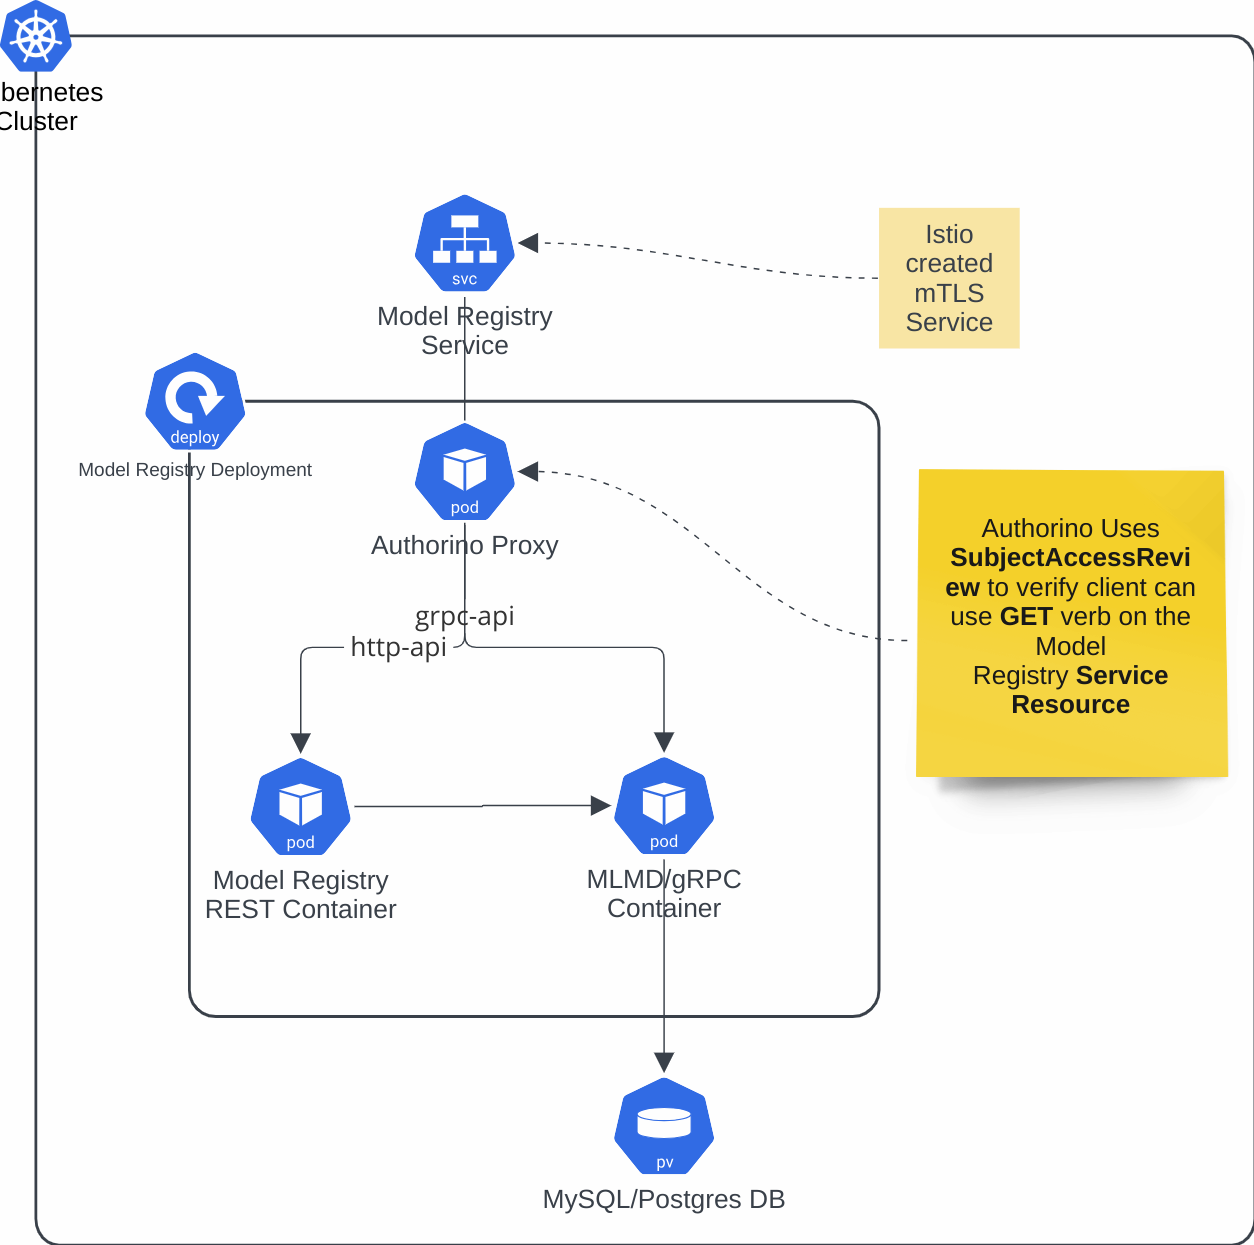
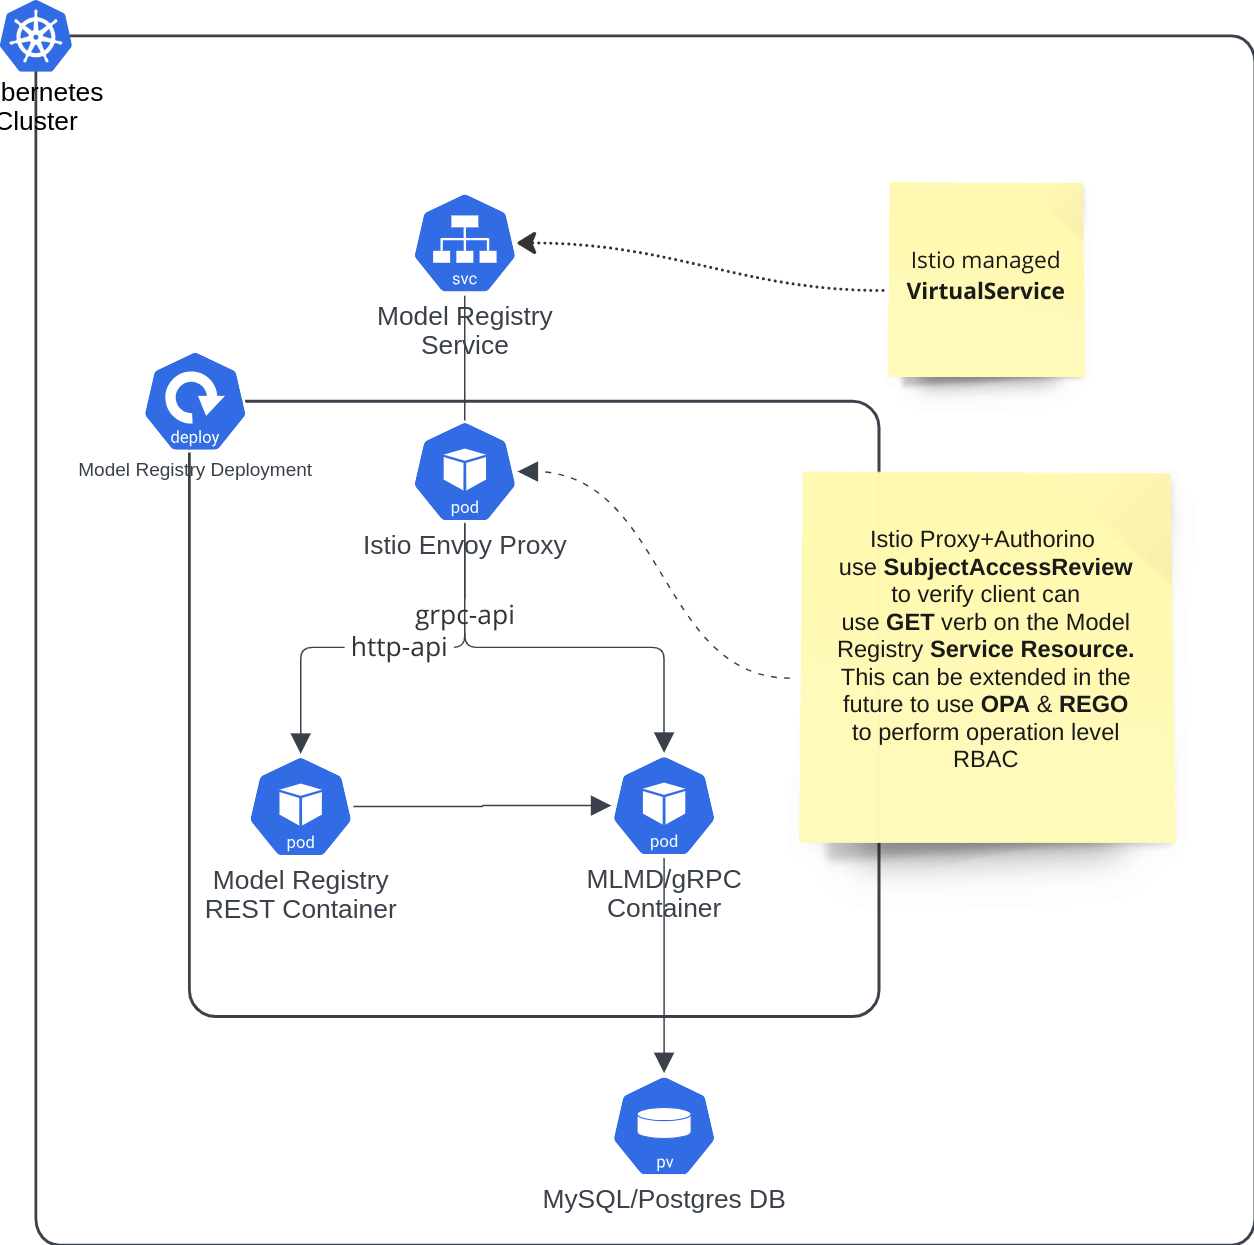
Updated model registry diagrams and tenancy text

diff --git a/documentation/components/model-registry/model-registry-tenancy.md b/documentation/components/model-registry/model-registry-tenancy.md
@@ -1,6 +1,6 @@
 # Model Registry Tenancy
 
- OpenShift AI deploys components per RedHat OpenShift AI Project. In this model, all OpenShift AI components are deployed per Project (K8s namespace) (except for Dashboard, which is per-cluster).   
+ OpenShift AI deploys components per RedHat OpenShift AI Project. In this model, all OpenShift AI components are deployed per Project (Kubernetes namespace) (except for Dashboard, which is per-cluster).   
 
 Model Registry needs to support sharing ML Model metadata across multiple projects/environments, etc. The current RHOAI per-namespace deployment model uses “namespaces” as the tenant, i.e. any users or service accounts that are members of that namespace share all data as a single tenant. Ideally, there should be a _logical_ tenancy model that allows users to group ML Model development based on teams, groups, or organizations, independent of the underlying Kubernetes deployment architecture. 
 
@@ -29,7 +29,7 @@ clients could be either human users that have authenticated with their user cred
 
 ## Deployment Architecture - Use Service Mesh and Authorino for RBAC
 
-This architecture calls for deploying the Model Registry deployment(s) in a known namespace such as “odh-model-registries”, where OpenShift AI administrators can provision any number of Model Registries with a unique name. For example, the administrator can install a single Model Registry called “public” and configure its permissions such that any authenticated user to the k8s cluster has access to its APIs. Similarly, another instance can be configured to be accessible to a set of known users/groups. 
+This architecture calls for deploying the Model Registry deployment(s) in a known namespace such as “odh-model-registries”, where OpenShift AI administrators can provision any number of Model Registries with a unique name. For example, the administrator can install a single Model Registry called “public” and configure its permissions such that any authenticated user to the Kubernetes cluster has access to its APIs. Similarly, another instance can be configured to be accessible to a set of known users/groups. 
 
 The namespace “odh-model-registries” will be automatically signed up as a member of the service mesh and all the model registry deployments will be configured to run an envoy proxy as a sidecar component. 
 
@@ -46,15 +46,14 @@ The diagram below shows the RBAC proxy deployment model:
 
 Model Registry Operator will create the following:
 
-K8s Role "RegistryUser&lt;registry-name&gt;" that allows the verb *Get* on the Kubernetes service created for "&lt;registry-name&gt;". This role will make it convenient for users, group, and service accounts to be granted access to a specific Model Registry service. 
-
-The Model Registry operator will also create a user group called "Group&lt;registry-name&gt;" with a binding to "RegistryUser&lt;registry-name&gt;" to help namespace administrators easily add users to this group and grant them access to the registry. 
+* Kubernetes Role `registry-user-<registry-name>` - allows the verb `GET` on the Kubernetes service created for `registry-name`. This role will make it convenient for users, group, and service accounts to be granted access to a specific Model Registry service. 
+* OpenShift User Group `<registry-name>-users` - with role binding to role `registry-user-<registry-name>` to help registry administrators easily add users to this group and grant them access to the registry. 
 
 Using the above two resources to handle the access permissions, Model Registry creates the tenancy model.
 
 ### Multiple “Model Registry” deployments in OpenShift AI
 
-This is the prescribed deployment model for multiple Model Registries in the MVP release with tenancy model. The tenncy is enforced with RBAC access to given instance of the Model Registry.
+This is the prescribed deployment model for multiple Model Registries in the MVP release with tenancy model. The tenancy is enforced with RBAC access to given instance of the Model Registry.
 
 ![alt_text](images/model-registry-tenancy-model.png "image_tooltip")
 
